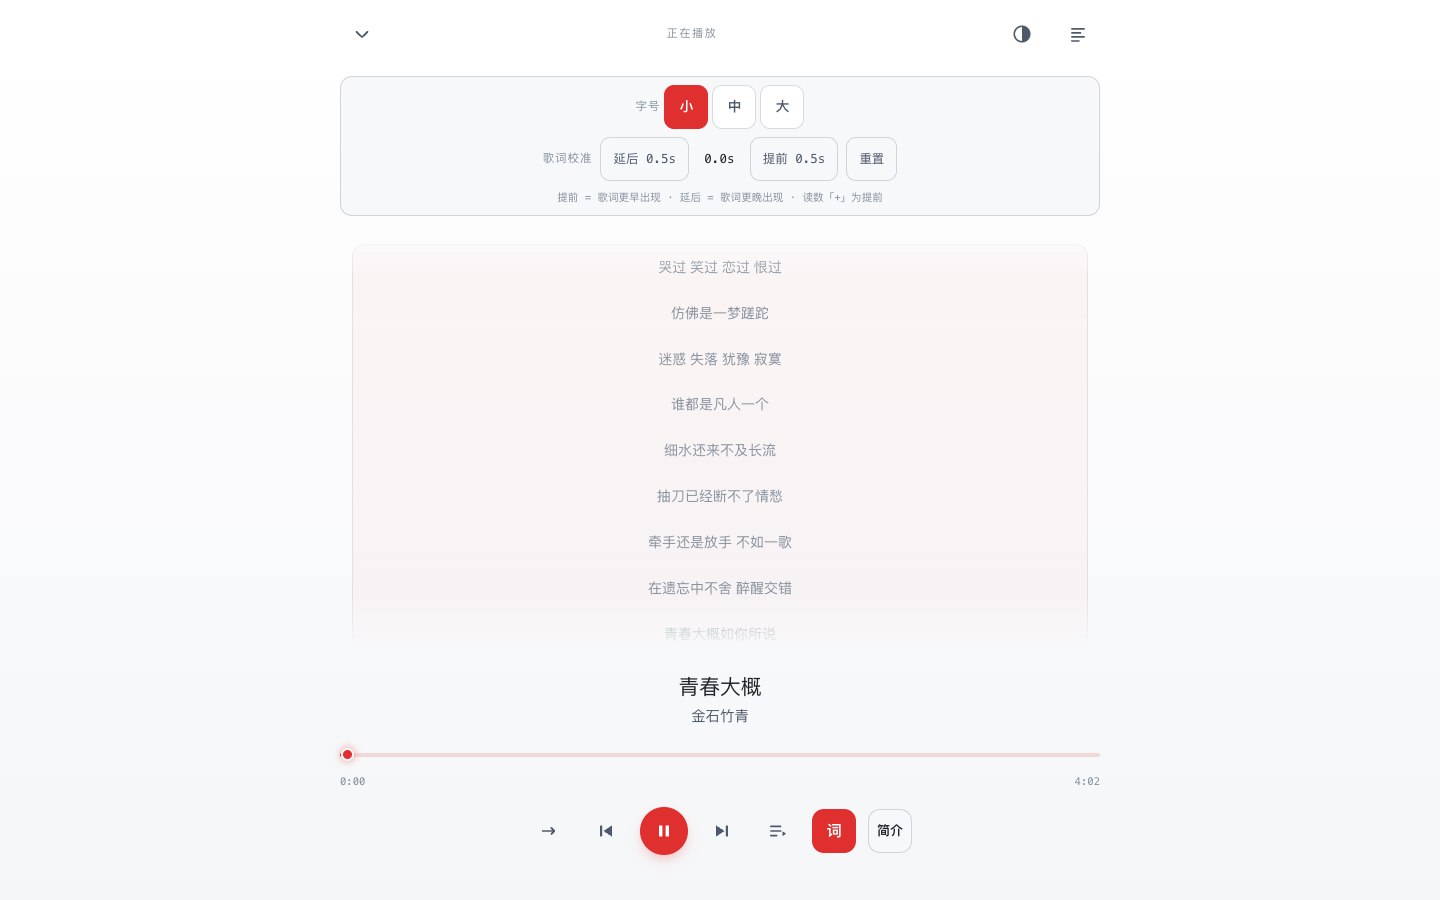
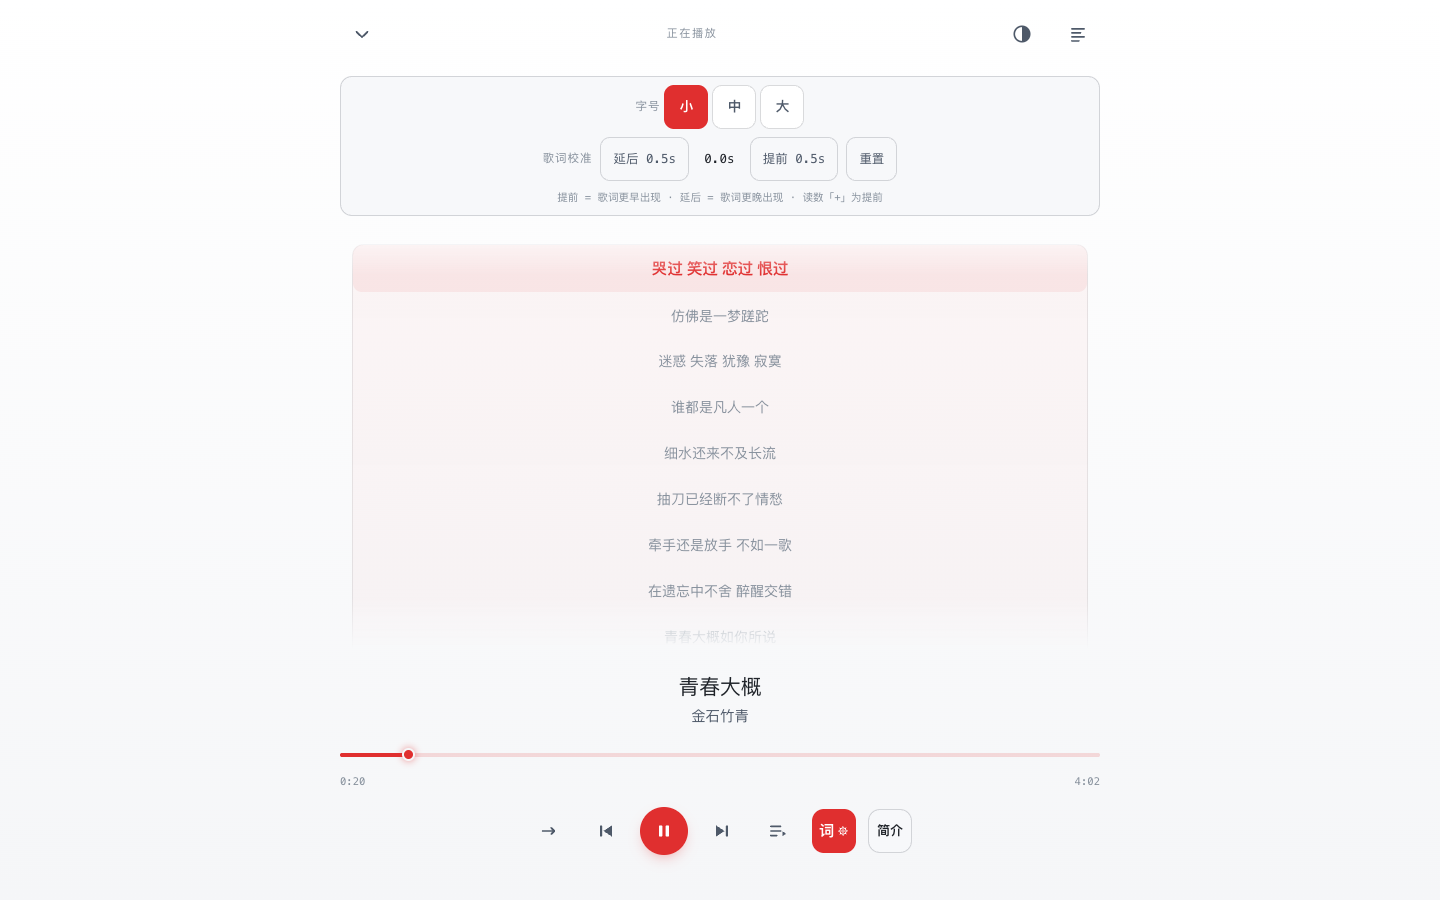
docs+probe: 三态轮线上复测全绿(面板63/63、browser-check215/215、verify-live18PASS)，取证产物与验证记录入库

diff --git a/docs/BROWSER-RESULTS.md b/docs/BROWSER-RESULTS.md
@@ -1,9 +1,9 @@
 # 真实浏览器验收结果
 
 > 由 `node tools/browser-check.mjs` 自动生成。浏览器：Chrome/157.0.8103.79
-> 运行时间：2026-11-20T02:00:26.764Z
+> 运行时间：2026-11-20T02:11:41.729Z
 > 音频：真实 MP3（合成测试音，非本人作品），Chrome 真实解码并推进 currentTime。
-> **214 / 215 通过，1 失败。**
+> **215 / 215 通过，0 失败。**
 
 ## 默认与回退
 
@@ -35,11 +35,11 @@
 | 项 | 结果 | 实测 |
 | --- | --- | --- |
 | 全屏播放页：控件在视口内且可点击 | PASS | 全屏播放页所有按钮可见可点 |
-| 播放：真实 MP3 解码并推进时间 | PASS | 15.13s → 16.42s，duration=36.05s，buffered=36.0s |
-| 暂停 / 继续 | PASS | 暂停于 16.43s 后恢复 |
+| 播放：真实 MP3 解码并推进时间 | PASS | 15.14s → 16.40s，duration=36.05s，buffered=36.0s |
+| 暂停 / 继续 | PASS | 暂停于 16.42s 后恢复 |
 | 主控尺寸与点击区域达标 | PASS | 主按钮 48px · 上下首点击区 44px · 图形 24px |
-| 播放/暂停图标原位切换：不跳位、不断音 | PASS | 按钮与图形位置零位移，音源不变，16.51s → 16.57s |
-| 拖动进度条 | PASS | seek → 18.46s |
+| 播放/暂停图标原位切换：不跳位、不断音 | PASS | 按钮与图形位置零位移，音源不变，16.49s → 16.54s |
+| 拖动进度条 | PASS | seek → 18.47s |
 | 下一首 / 上一首 | PASS | next → demo-paper-boat（真实播放），prev → demo-night-ferry |
 | 音量控制 | PASS | volume=0.4，静音可切换 |
 | 四种播放模式 | PASS | order → repeat-all → repeat-one → shuffle |
@@ -48,12 +48,12 @@
 | 标签筛选与展示模式 | PASS | 标签筛选 + 列表/封面墙/唱片 |
 | 专辑与歌单一键播放 | PASS | 专辑 2 首播放 · 歌单加入队列 |
 | 收藏与最近播放 | PASS | 收藏 1 · 最近 2 |
-| LRC 同步高亮与点击跳转 | PASS | 13s → 第 4 行；点击第 7 行 → 19.5s |
+| LRC 同步高亮与点击跳转 | PASS | 13s → 第 4 行；点击第 7 行 → 19.6s |
 | 纯音乐 / 无歌词空状态 | PASS | 纯音乐：无歌词、不高亮 |
 | 快速切歌 A→B→A，歌词不串台 | PASS | 最终 demo-night-ferry，歌词「夜渡 · 测试音源 A」 |
 | 失效资源 → error 状态与可读提示 | PASS | 无法开始播放：Failed to load because no supported source was found. |
 | 网络中断 → 不假装在播 | PASS | 断网状态 error，恢复后可继续播放 |
-| 刷新后恢复队列与进度，且不自动出声 | PASS | 恢复 2 首，进度 11.27s，保持暂停 |
+| 刷新后恢复队列与进度，且不自动出声 | PASS | 恢复 2 首，进度 11.26s，保持暂停 |
 | 分享：规范链接 / 复制 / 二维码 | PASS | canonical 正确 · 二维码可见 · 已复制 |
 | 深链接直达与刷新 | PASS | 7 条深层路径直达 + 刷新均正常 |
 | 站内导航不断歌（真实浏览器） | PASS | 0.01s → 0.88s，同一 audio 实例 |
@@ -83,11 +83,11 @@
 | 项 | 结果 | 实测 |
 | --- | --- | --- |
 | 全屏播放页：控件在视口内且可点击 | PASS | 全屏播放页所有按钮可见可点 |
-| 播放：真实 MP3 解码并推进时间 | PASS | 15.20s → 16.46s，duration=36.05s，buffered=36.0s |
-| 暂停 / 继续 | PASS | 暂停于 16.48s 后恢复 |
+| 播放：真实 MP3 解码并推进时间 | PASS | 15.23s → 16.50s，duration=36.05s，buffered=36.0s |
+| 暂停 / 继续 | PASS | 暂停于 16.51s 后恢复 |
 | 主控尺寸与点击区域达标 | PASS | 主按钮 56px · 上下首点击区 44px · 图形 24px |
-| 播放/暂停图标原位切换：不跳位、不断音 | PASS | 按钮与图形位置零位移，音源不变，16.54s → 16.60s |
-| 拖动进度条 | PASS | seek → 18.47s |
+| 播放/暂停图标原位切换：不跳位、不断音 | PASS | 按钮与图形位置零位移，音源不变，16.56s → 16.60s |
+| 拖动进度条 | PASS | seek → 18.46s |
 | 下一首 / 上一首 | PASS | next → demo-paper-boat（真实播放），prev → demo-night-ferry |
 | 四种播放模式 | PASS | order → repeat-all → repeat-one → shuffle |
 | 队列：添加 / 重复 / 删除 / 排序 / 清空 | PASS | 4 项（含重复）→ 排序 → 删除 → 面板 → 清空 |
@@ -130,11 +130,11 @@
 | 项 | 结果 | 实测 |
 | --- | --- | --- |
 | 全屏播放页：控件在视口内且可点击 | PASS | 全屏播放页所有按钮可见可点 |
-| 播放：真实 MP3 解码并推进时间 | PASS | 15.09s → 16.35s，duration=36.05s，buffered=36.0s |
+| 播放：真实 MP3 解码并推进时间 | PASS | 15.08s → 16.37s，duration=36.05s，buffered=36.0s |
 | 暂停 / 继续 | PASS | 暂停于 16.38s 后恢复 |
 | 主控尺寸与点击区域达标 | PASS | 主按钮 48px · 上下首点击区 44px · 图形 24px |
-| 播放/暂停图标原位切换：不跳位、不断音 | PASS | 按钮与图形位置零位移，音源不变，16.42s → 16.45s |
-| 拖动进度条 | PASS | seek → 18.46s |
+| 播放/暂停图标原位切换：不跳位、不断音 | PASS | 按钮与图形位置零位移，音源不变，16.45s → 16.48s |
+| 拖动进度条 | PASS | seek → 18.47s |
 | 下一首 / 上一首 | PASS | next → demo-paper-boat（真实播放），prev → demo-night-ferry |
 | 音量控制 | PASS | volume=0.4，静音可切换 |
 | 四种播放模式 | PASS | order → repeat-all → repeat-one → shuffle |
@@ -148,7 +148,7 @@
 | 快速切歌 A→B→A，歌词不串台 | PASS | 最终 demo-night-ferry，歌词「夜渡 · 测试音源 A」 |
 | 失效资源 → error 状态与可读提示 | PASS | 无法开始播放：Failed to load because no supported source was found. |
 | 网络中断 → 不假装在播 | PASS | 断网状态 error，恢复后可继续播放 |
-| 刷新后恢复队列与进度，且不自动出声 | PASS | 恢复 2 首，进度 11.27s，保持暂停 |
+| 刷新后恢复队列与进度，且不自动出声 | PASS | 恢复 2 首，进度 11.26s，保持暂停 |
 | 分享：规范链接 / 复制 / 二维码 | PASS | canonical 正确 · 二维码可见 · 已复制 |
 | 深链接直达与刷新 | PASS | 7 条深层路径直达 + 刷新均正常 |
 | 站内导航不断歌（真实浏览器） | PASS | 0.01s → 0.87s，同一 audio 实例 |
@@ -178,11 +178,11 @@
 | 项 | 结果 | 实测 |
 | --- | --- | --- |
 | 全屏播放页：控件在视口内且可点击 | PASS | 全屏播放页所有按钮可见可点 |
-| 播放：真实 MP3 解码并推进时间 | PASS | 15.22s → 16.48s，duration=36.05s，buffered=36.0s |
-| 暂停 / 继续 | PASS | 暂停于 16.50s 后恢复 |
+| 播放：真实 MP3 解码并推进时间 | PASS | 17.22s → 18.48s，duration=36.05s，buffered=36.0s |
+| 暂停 / 继续 | PASS | 暂停于 18.49s 后恢复 |
 | 主控尺寸与点击区域达标 | PASS | 主按钮 56px · 上下首点击区 44px · 图形 24px |
-| 播放/暂停图标原位切换：不跳位、不断音 | PASS | 按钮与图形位置零位移，音源不变，16.54s → 16.58s |
-| 拖动进度条 | PASS | seek → 18.46s |
+| 播放/暂停图标原位切换：不跳位、不断音 | PASS | 按钮与图形位置零位移，音源不变，18.56s → 18.61s |
+| 拖动进度条 | PASS | seek → 18.45s |
 | 下一首 / 上一首 | PASS | next → demo-paper-boat（真实播放），prev → demo-night-ferry |
 | 四种播放模式 | PASS | order → repeat-all → repeat-one → shuffle |
 | 队列：添加 / 重复 / 删除 / 排序 / 清空 | PASS | 4 项（含重复）→ 排序 → 删除 → 面板 → 清空 |
@@ -195,7 +195,7 @@
 | 快速切歌 A→B→A，歌词不串台 | PASS | 最终 demo-night-ferry，歌词「夜渡 · 测试音源 A」 |
 | 失效资源 → error 状态与可读提示 | PASS | 无法开始播放：Failed to load because no supported source was found. |
 | 网络中断 → 不假装在播 | PASS | 断网状态 error，恢复后可继续播放 |
-| 刷新后恢复队列与进度，且不自动出声 | PASS | 恢复 2 首，进度 11.27s，保持暂停 |
+| 刷新后恢复队列与进度，且不自动出声 | PASS | 恢复 2 首，进度 11.26s，保持暂停 |
 | 分享：规范链接 / 复制 / 二维码 | PASS | canonical 正确 · 二维码可见 · 已复制 |
 | 深链接直达与刷新 | PASS | 7 条深层路径直达 + 刷新均正常 |
 | 站内导航不断歌（真实浏览器） | PASS | 0.01s → 0.87s，同一 audio 实例 |
@@ -225,11 +225,11 @@
 | 项 | 结果 | 实测 |
 | --- | --- | --- |
 | 全屏播放页：控件在视口内且可点击 | PASS | 全屏播放页所有按钮可见可点 |
-| 播放：真实 MP3 解码并推进时间 | PASS | 15.14s → 16.41s，duration=36.05s，buffered=36.0s |
-| 暂停 / 继续 | PASS | 暂停于 16.42s 后恢复 |
+| 播放：真实 MP3 解码并推进时间 | PASS | 15.15s → 16.42s，duration=36.05s，buffered=36.0s |
+| 暂停 / 继续 | PASS | 暂停于 16.43s 后恢复 |
 | 主控尺寸与点击区域达标 | PASS | 主按钮 48px · 上下首点击区 44px · 图形 24px |
-| 播放/暂停图标原位切换：不跳位、不断音 | PASS | 按钮与图形位置零位移，音源不变，16.48s → 16.52s |
-| 拖动进度条 | PASS | seek → 18.46s |
+| 播放/暂停图标原位切换：不跳位、不断音 | PASS | 按钮与图形位置零位移，音源不变，16.49s → 16.56s |
+| 拖动进度条 | PASS | seek → 18.45s |
 | 下一首 / 上一首 | PASS | next → demo-paper-boat（真实播放），prev → demo-night-ferry |
 | 音量控制 | PASS | volume=0.4，静音可切换 |
 | 四种播放模式 | PASS | order → repeat-all → repeat-one → shuffle |
@@ -243,10 +243,10 @@
 | 快速切歌 A→B→A，歌词不串台 | PASS | 最终 demo-night-ferry，歌词「夜渡 · 测试音源 A」 |
 | 失效资源 → error 状态与可读提示 | PASS | 无法开始播放：Failed to load because no supported source was found. |
 | 网络中断 → 不假装在播 | PASS | 断网状态 error，恢复后可继续播放 |
-| 刷新后恢复队列与进度，且不自动出声 | PASS | 恢复 2 首，进度 11.25s，保持暂停 |
+| 刷新后恢复队列与进度，且不自动出声 | PASS | 恢复 2 首，进度 11.27s，保持暂停 |
 | 分享：规范链接 / 复制 / 二维码 | PASS | canonical 正确 · 二维码可见 · 已复制 |
 | 深链接直达与刷新 | PASS | 7 条深层路径直达 + 刷新均正常 |
-| 站内导航不断歌（真实浏览器） | PASS | 0.01s → 0.87s，同一 audio 实例 |
+| 站内导航不断歌（真实浏览器） | PASS | 0.01s → 0.88s，同一 audio 实例 |
 | 主题 / 布局切换保留全部播放状态 | PASS | 3 主题 × 3 布局 × 播放/暂停两态全部保持 |
 | 设置记忆：刷新后恢复外观与布局 | PASS | forest + mobile 已恢复 |
 
@@ -273,10 +273,10 @@
 | 项 | 结果 | 实测 |
 | --- | --- | --- |
 | 全屏播放页：控件在视口内且可点击 | PASS | 全屏播放页所有按钮可见可点 |
-| 播放：真实 MP3 解码并推进时间 | PASS | 17.20s → 18.49s，duration=36.05s，buffered=36.0s |
+| 播放：真实 MP3 解码并推进时间 | PASS | 17.22s → 18.49s，duration=36.05s，buffered=36.0s |
 | 暂停 / 继续 | PASS | 暂停于 18.50s 后恢复 |
 | 主控尺寸与点击区域达标 | PASS | 主按钮 56px · 上下首点击区 44px · 图形 24px |
-| 播放/暂停图标原位切换：不跳位、不断音 | PASS | 按钮与图形位置零位移，音源不变，18.54s → 18.57s |
+| 播放/暂停图标原位切换：不跳位、不断音 | PASS | 按钮与图形位置零位移，音源不变，18.55s → 18.58s |
 | 拖动进度条 | PASS | seek → 18.45s |
 | 下一首 / 上一首 | PASS | next → demo-paper-boat（真实播放），prev → demo-night-ferry |
 | 四种播放模式 | PASS | order → repeat-all → repeat-one → shuffle |
@@ -285,7 +285,7 @@
 | 标签筛选与展示模式 | PASS | 标签筛选 + 列表/封面墙/唱片 |
 | 专辑与歌单一键播放 | PASS | 专辑 2 首播放 · 歌单加入队列 |
 | 收藏与最近播放 | PASS | 收藏 1 · 最近 2 |
-| LRC 同步高亮与点击跳转 | PASS | 13s → 第 4 行；点击第 7 行 → 19.5s |
+| LRC 同步高亮与点击跳转 | PASS | 13s → 第 4 行；点击第 7 行 → 19.6s |
 | 纯音乐 / 无歌词空状态 | PASS | 纯音乐：无歌词、不高亮 |
 | 快速切歌 A→B→A，歌词不串台 | PASS | 最终 demo-night-ferry，歌词「夜渡 · 测试音源 A」 |
 | 失效资源 → error 状态与可读提示 | PASS | 无法开始播放：Failed to load because no supported source was found. |
@@ -293,7 +293,7 @@
 | 刷新后恢复队列与进度，且不自动出声 | PASS | 恢复 2 首，进度 11.26s，保持暂停 |
 | 分享：规范链接 / 复制 / 二维码 | PASS | canonical 正确 · 二维码可见 · 已复制 |
 | 深链接直达与刷新 | PASS | 7 条深层路径直达 + 刷新均正常 |
-| 站内导航不断歌（真实浏览器） | PASS | 0.01s → 0.87s，同一 audio 实例 |
+| 站内导航不断歌（真实浏览器） | PASS | 0.01s → 0.88s，同一 audio 实例 |
 | 主题 / 布局切换保留全部播放状态 | PASS | 3 主题 × 3 布局 × 播放/暂停两态全部保持 |
 | 设置记忆：刷新后恢复外观与布局 | PASS | forest + mobile 已恢复 |
 
@@ -303,7 +303,7 @@
 | --- | --- | --- |
 | 连续跨深度导航都落在正确路径且样式生效 | PASS | 5 次跨深度导航路径与样式全部正确 |
 | 导航后外壳无相对引用（链接 + 图片） | PASS | 外壳链接与图片全部绝对地址 |
-| 导航后刷新仍正常 | PASS | len=2040 |
+| 导航后刷新仍正常 | PASS | len=2191 |
 
 ## 白屏回归 · mobile
 
@@ -311,7 +311,7 @@
 | --- | --- | --- |
 | 连续跨深度导航都落在正确路径且样式生效 | PASS | 5 次跨深度导航路径与样式全部正确 |
 | 导航后外壳无相对引用（链接 + 图片） | PASS | 外壳链接与图片全部绝对地址 |
-| 导航后刷新仍正常 | PASS | len=2040 |
+| 导航后刷新仍正常 | PASS | len=2191 |
 
 ## 白屏回归 · 404 页
 
@@ -325,7 +325,7 @@
 | 项 | 结果 | 实测 |
 | --- | --- | --- |
 | 窄屏 360×740：形态正确且无溢出 | PASS | 汉堡=true 操作键=2 溢出=0px |
-| 平板 768×1024：形态正确且无溢出 | **FAIL** | 平板 768×1024 迷你条操作键=7，期望 8 |
+| 平板 768×1024：形态正确且无溢出 | PASS | 汉堡=false 操作键=7 溢出=0px |
 | 宽屏 1920×1080：形态正确且无溢出 | PASS | 汉堡=false 操作键=8 溢出=0px |
 
 ## 手动布局
@@ -348,5 +348,5 @@
 
 | 项 | 结果 | 实测 |
 | --- | --- | --- |
-| 竖屏 → 横屏 → 竖屏：不溢出、不断歌 | PASS | 0.02s → 1.01s，两种朝向均无溢出 |
+| 竖屏 → 横屏 → 竖屏：不溢出、不断歌 | PASS | 0.02s → 1.00s，两种朝向均无溢出 |
 

diff --git a/docs/PLAYER-CONTROLS.md b/docs/PLAYER-CONTROLS.md
@@ -180,16 +180,23 @@ hover 转 `var(--acc)`。**没有任何单独硬编码的颜色**：
   - **播放/暂停图标原位切换：不跳位、不断音**（按钮与图形四值位移 < 0.6px，
     音源不变、进度不倒退）
 - 控制区特写截图：`docs/screenshots/controls-{theme}-{viewport}-{bar,full}.png`
-- 面板轮（字号工具栏 + 逐曲校准 + 简介）：`tests/player-panels.test.mjs`（15 项）+
+- 面板轮（「词」三态循环 + 字号工具栏 + 逐曲校准 + 简介）：`tests/player-panels.test.mjs`（18 项）+
   `tools/probe-player-panels.mjs` 真实 Chrome 桌面 1440×900 / 移动 390×844，
-  本地 DEMO 与线上生产各 47/47；截图 `docs/screenshots/panels-{local,live}-*.png`，
+  本地 DEMO 与线上生产各 **63/63**；截图 `docs/screenshots/panels-{local,live}-*.png`
+  （含纯享态 `-pure.png`：无工具栏、歌词拿满高度），
   报告 `docs/player-panels-results.json`（`alsoRun` 保留另一目标的上一次摘要）
-- 面板轮复测：`probe-regression` 138/0、`probe-lyrics-sync` local+live 41/41、
-  `verify-live` 18 PASS · 1 N/A · 0 FAIL（2026-11-19，部署 commit 281e168 后；
-  线上 3 首真实歌曲，「另一首歌」为无 LRC 的《天和山雨雪》，覆盖无歌词时校准与简介仍可用）
+- 三态轮复测：`probe-regression` 138/0、`probe-lyrics-sync` local+live 41/41、
+  `npm run browser:check` **215/215**（六组合 + 自动适配 + 手动布局 + 横竖屏）、
+  `verify-live` 18 PASS · 1 N/A · 0 FAIL（2026-11-19，部署 commit 81dc7c3 后；
+  线上 4 首真实歌曲，「另一首歌」为纯文本歌词的《去年夏天》，覆盖无时间轴时校准禁用仍如实）
+- browser-check 两处**旧断言**按现行设计更新（非站点回归）：手机迷你条操作区常驻但只留
+  「词」「简介」→ 改按可见子键计数（手机 2 / 平板带 7 / 桌面 8）；专辑 / 歌单按钮先滚到
+  视口中部再点，避开固定迷你条覆盖区（与 probe-player-panels 的 playRow 同一做法）
 - **NOT_RUN**：iOS Safari 真机、微信内浏览器真机（无设备 / 账号）；
   「全部资料缺失 → 歌曲资料待补充」分支仅单元覆盖，未真机目视
 
 > 图标轮只改图标、尺寸、间距与交互样式；面板轮新增字号偏好（按浏览器持久化）、
 > 校准偏移（按歌曲持久化）与简介舞台，Media Session 封面 MIME 改为按扩展名如实声明。
+> 三态轮把「词」改为 隐藏→纯享→设置→隐藏 循环：工具栏仅设置态独立占位显示，
+> 设置态按钮加小齿轮标记；三态本身不持久化（刷新 / 收起后首击回纯享）。
 > 走带 / 快捷键 / 竞态令牌 / 媒体事件驱动状态机均未改动。
